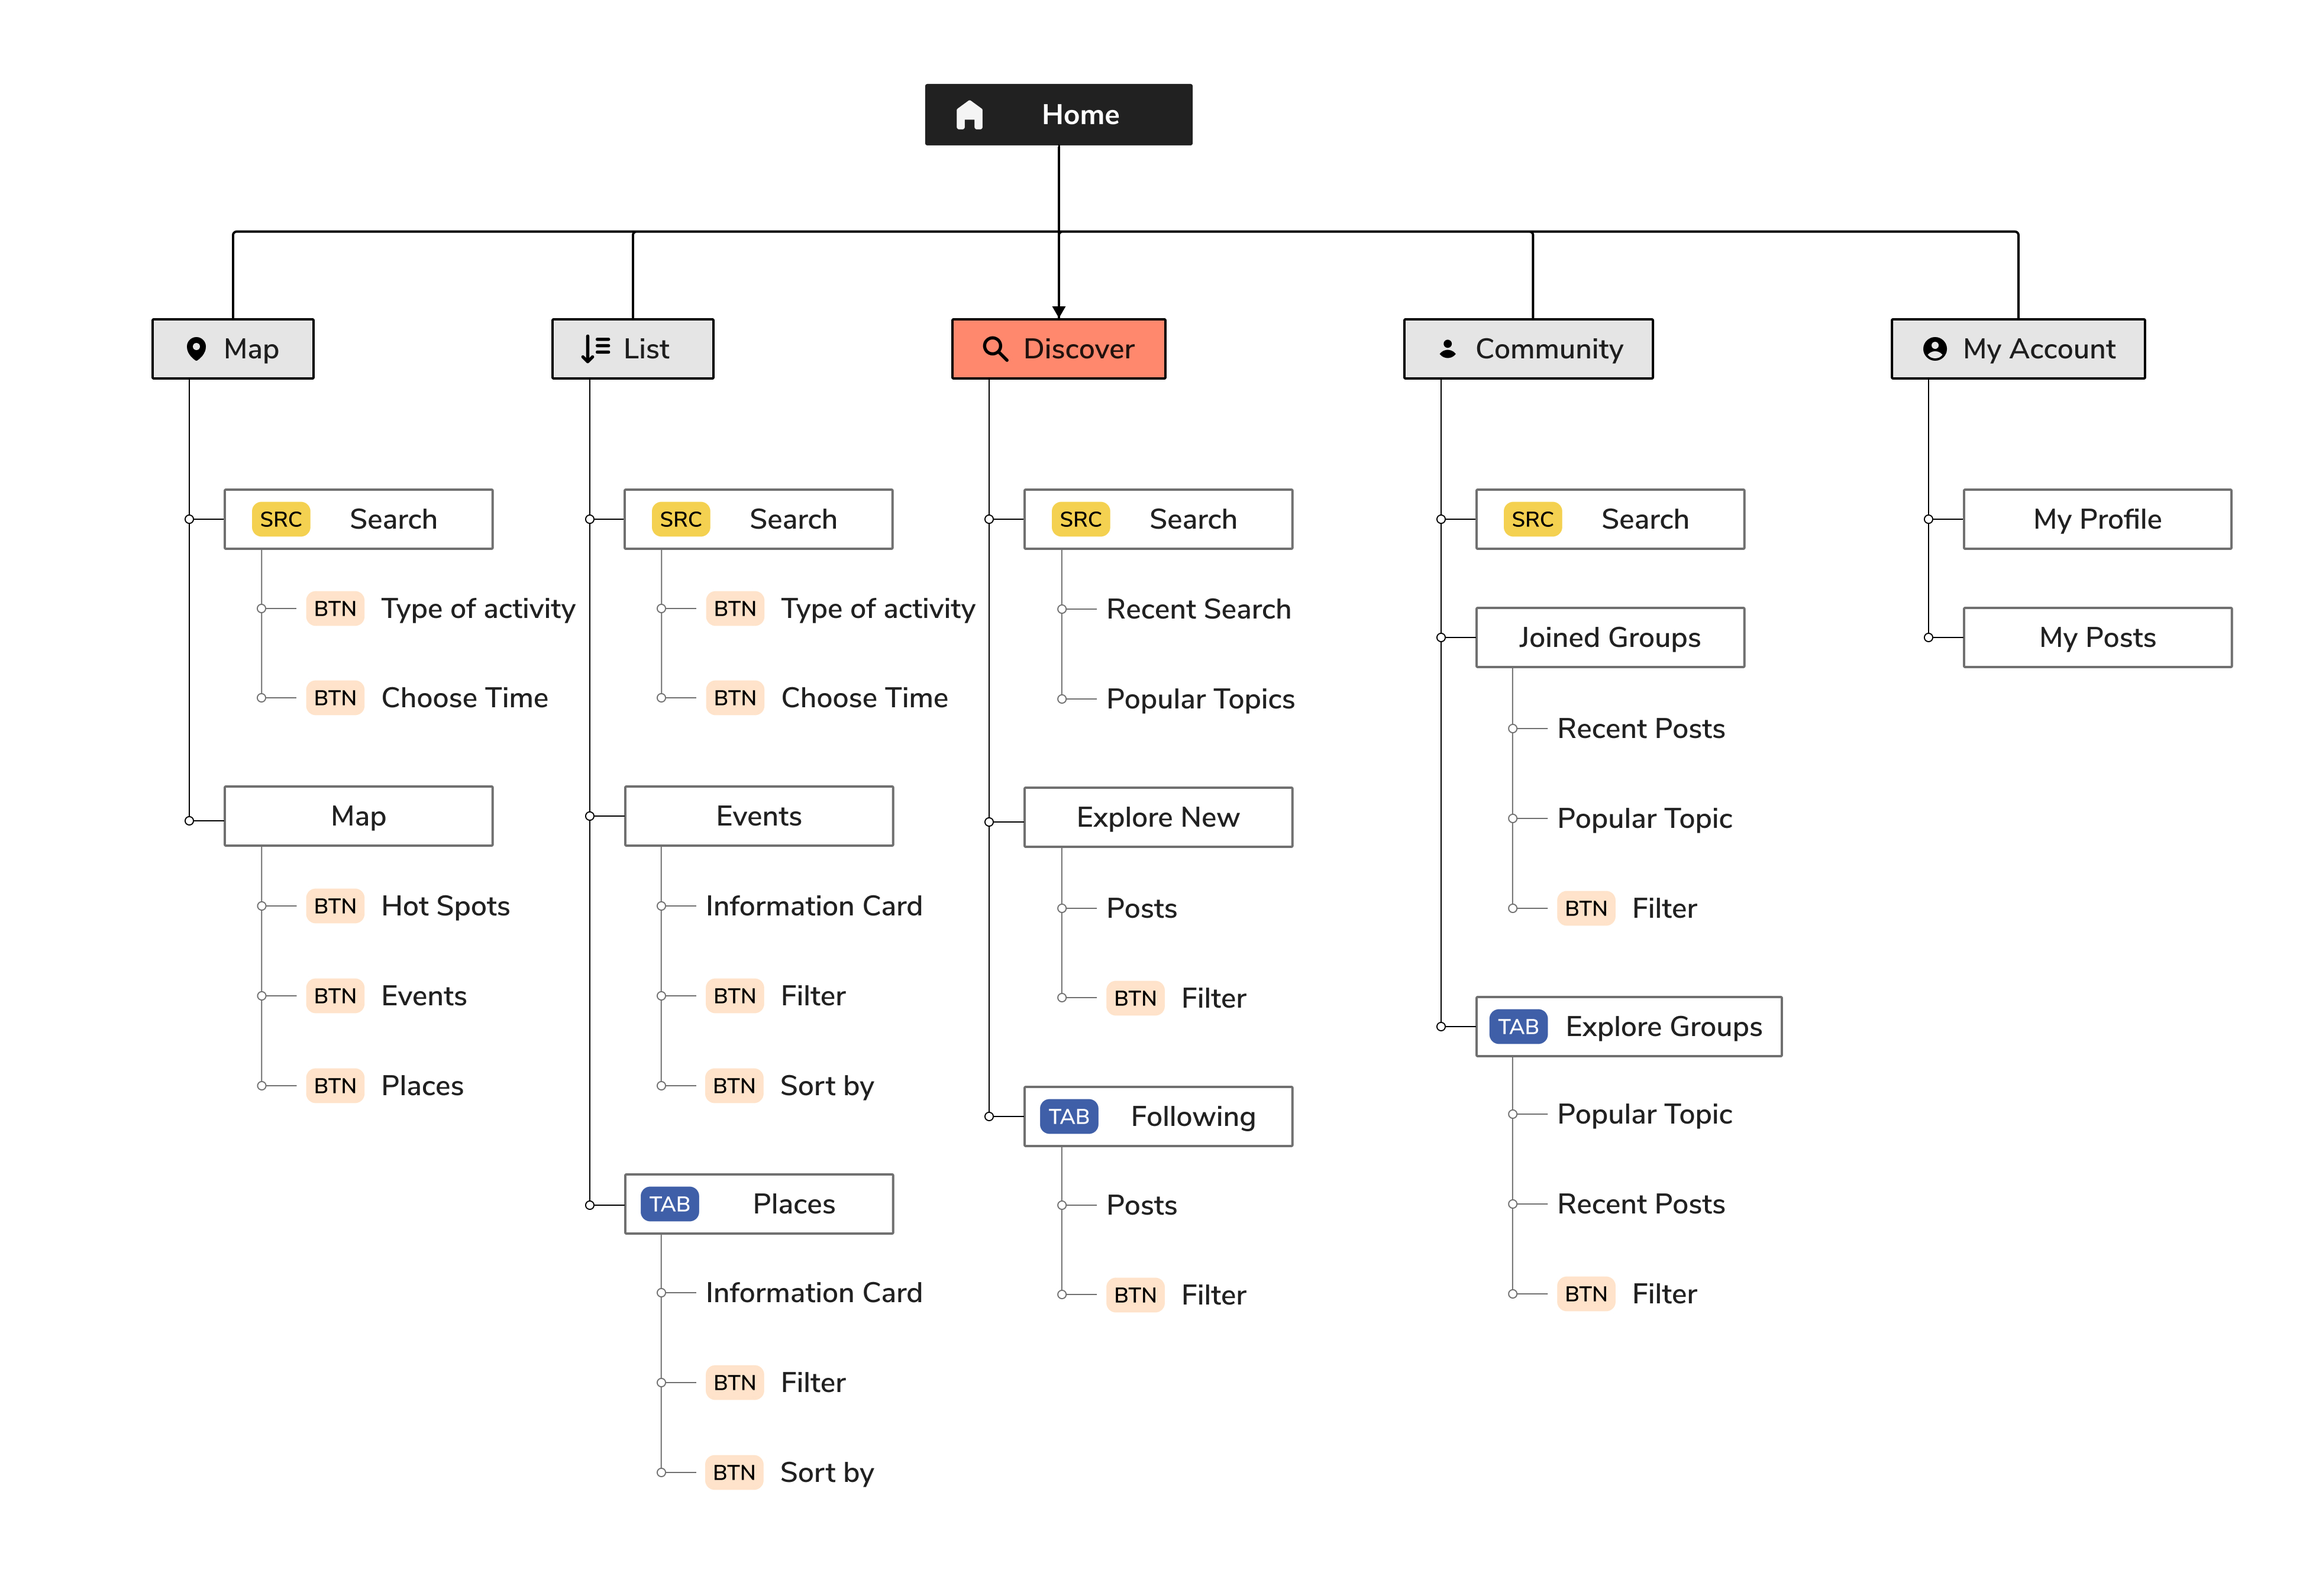
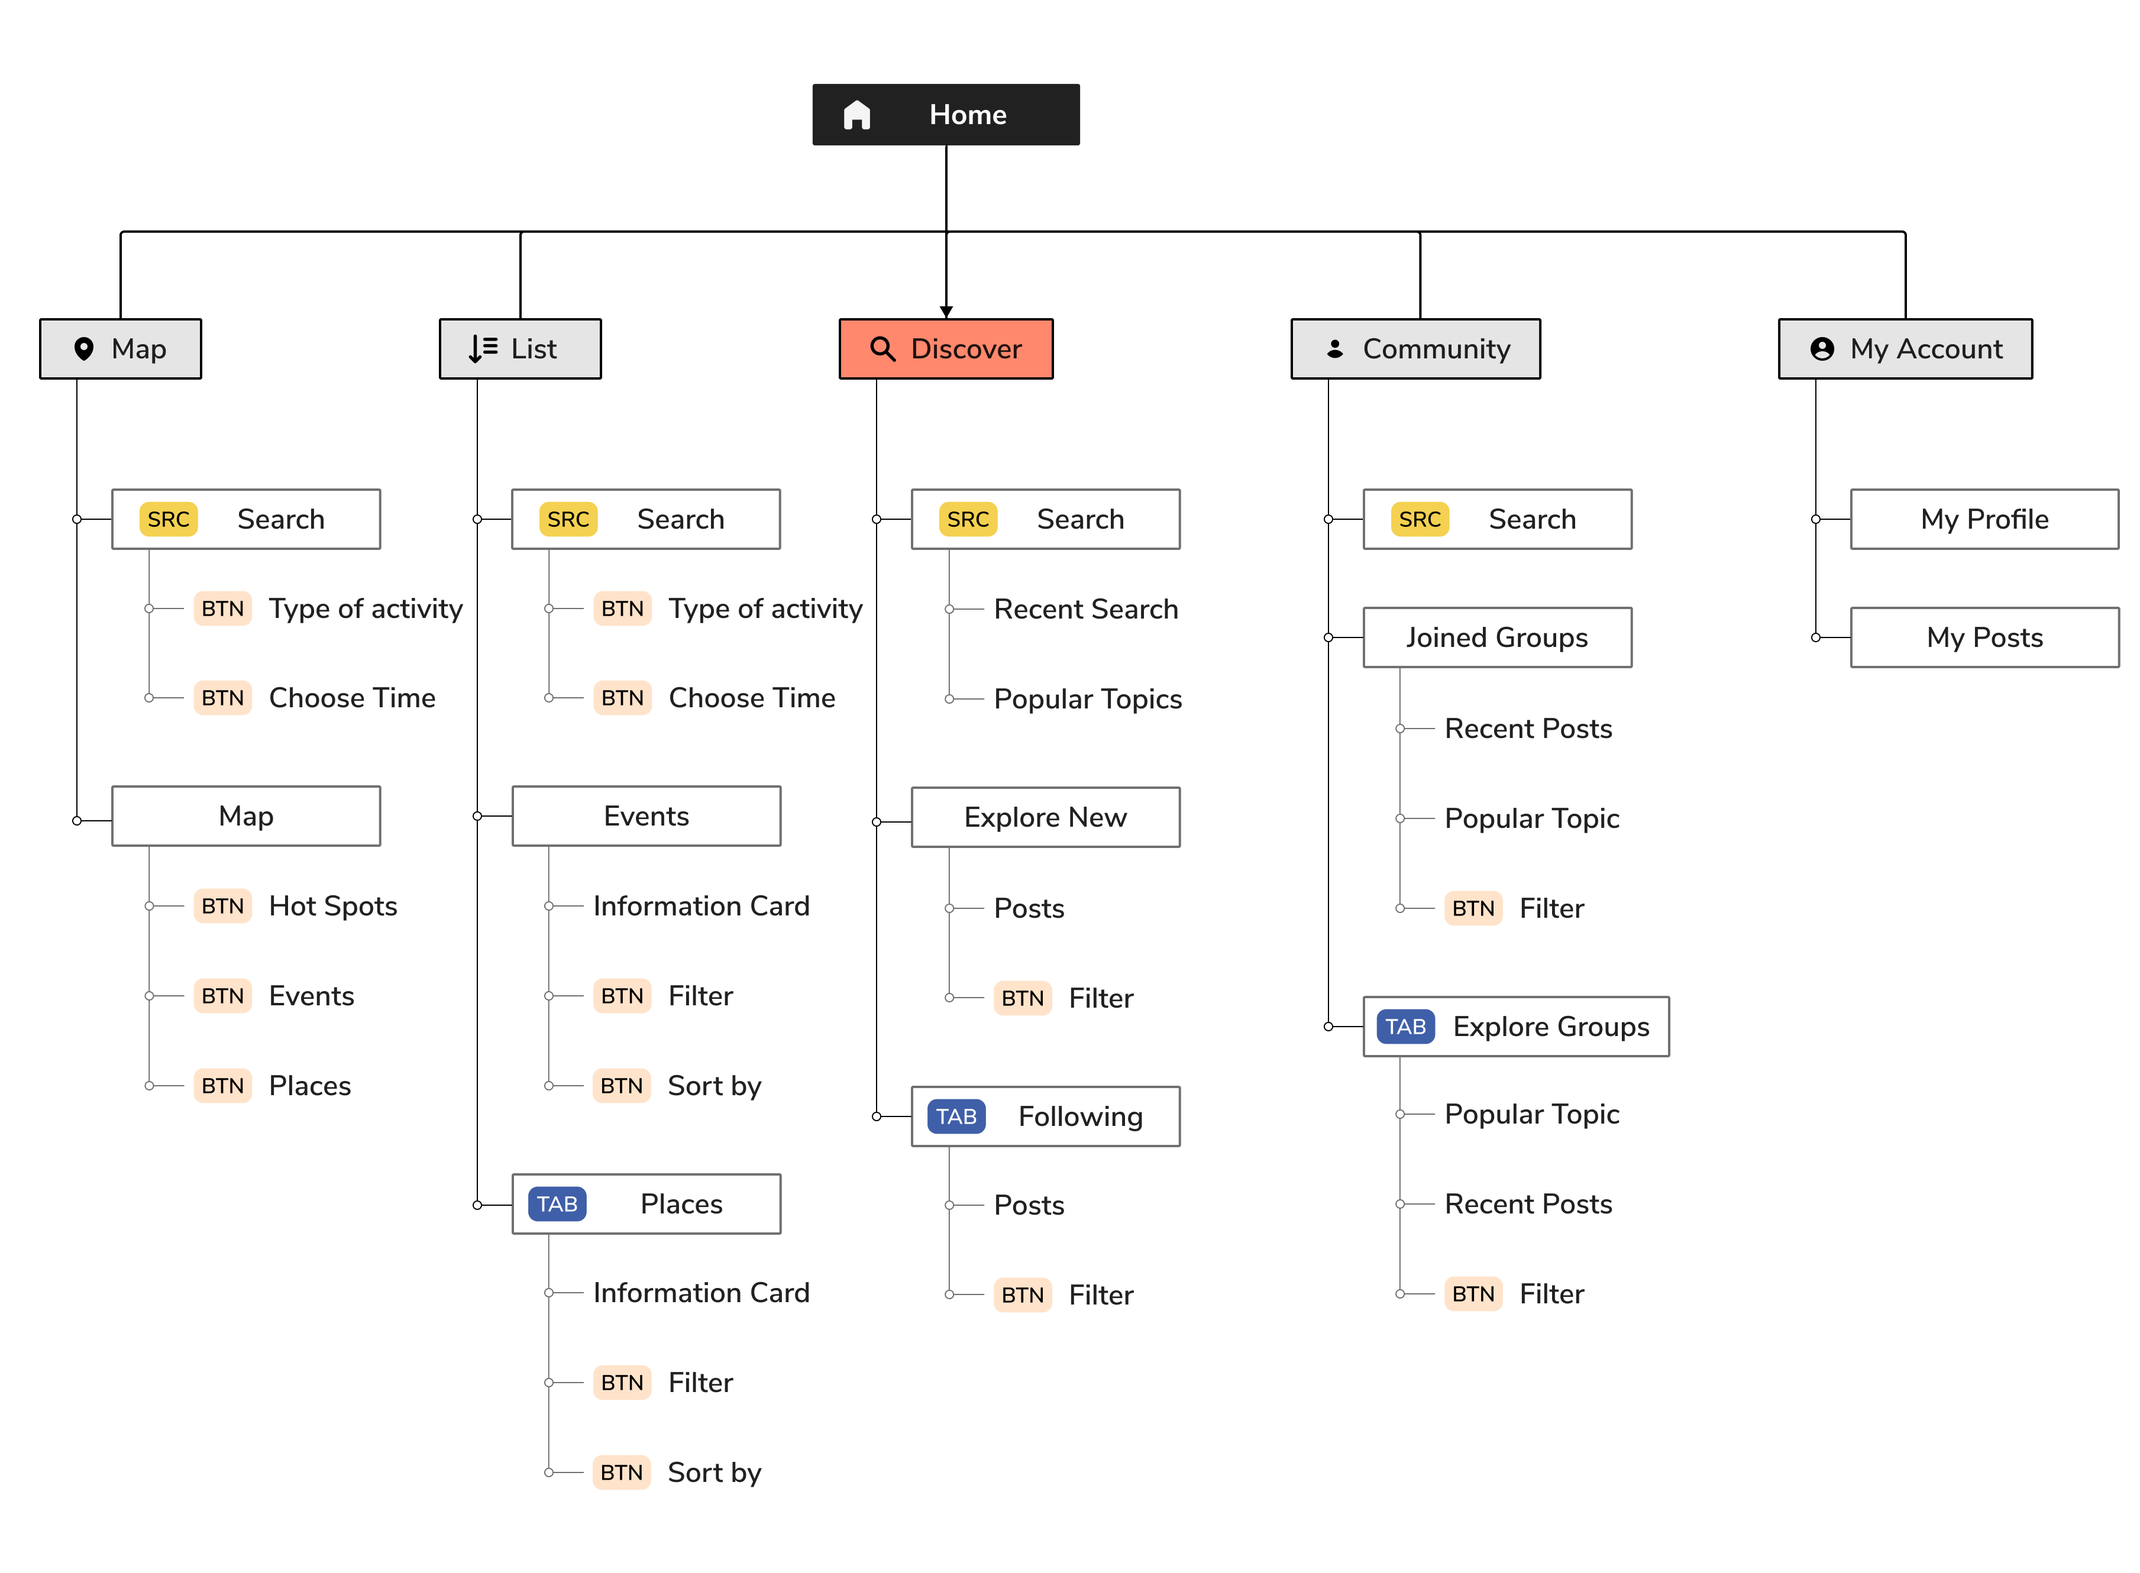
eventdiscoveryapp

diff --git a/local-discovery-responsive.html b/local-discovery-responsive.html
@@ -45,8 +45,8 @@
     <div class="row" id="banner" data-aos="fade-up" data-aos-duration="1200" data-aos-delay="200" data-aos-easing="ease-out">
         <div class="col-sm-6 col-md-7">
             <div id="projecttitle">
-                <h1><i>.local</i> Fun-discovery App</h1>
-                <h4>A fun-discovery app that helps users discover and share about local events and places easily.</h4>
+                <h1><i>.local</i> Event Discovery App</h1>
+                <h4>An event discovery app that helps users discover and share about local events and places easily.</h4>
             </div>
         </div>
         <div class="col-sm-6 col-md-5">
@@ -63,7 +63,7 @@
             <h3>Background</h3>
         </div>
         <div class="content">
-            <h4>'.Local' is a fun-discovery app that helps users discover and share about places and local events via posts and maps. I created the app from concept to high-fidelity prototype through conducting user research, sketches, and rounds of design
+            <h4>'.Local' is a event-discovery app that helps users discover and share about places and local events via posts and maps. I created the app from concept to high-fidelity prototype through conducting user research, sketches, and rounds of design
                 iterations. I also conducted many rounds of user testing and altered design based on feedback to improve the app's learnability and usability.</h4>
         </div>
         <div class="Problem">
@@ -92,7 +92,7 @@
             <h3>Team</h3>
         </div>
         <div>
-            <h4>Personal Project with Mentor </h4>
+            <h4>One Product Designer</h4>
         </div>
         <div>
             <h3>Tools</h3>
@@ -288,7 +288,7 @@
                 saved.
             </h4>
             <img src="local-discovery-app/Diagram/10_Site-Map-version1.jpg" alt="SiteMap" data-aos="fade-in" data-aos-duration="800" data-aos-easing="ease-in-back">
-            <h5>Site Map Version1</h5>
+            <h5>Site Map Version1<a href="local-discovery-app/Diagram/10_Site-Map-version1.jpg">(Click to enlarge)</a></h5>
             <br>
             <li class="subtitle">User Flows</li>
             <h4>I mapped out the most critical user flows I identified for the user stories.</h4>
@@ -298,7 +298,8 @@
             <h4>3- Users go straight to the search bar and search for topics they are interested in.</h4>
             <h4>4- Find what's happening around them on the map.</h4>
             <img src="local-discovery-app/Diagram/11_User-Flow-01.jpg" alt="UserFlow" data-aos="fade-in" data-aos-duration="800" data-aos-easing="ease-in-back">
-            <h5>User Flows</h5>
+            <h5>User Flows<a href="local-discovery-app/Diagram/11_User-Flow-01.jpg">(Click to enlarge)</a>
+            </h5>
             <li class="subtitle">Sketches and User Testing</li>
             <li class="subsubtitle">1- First iterations: Drafting the concepts</li>
             <H4>With all the supporting work presented, I started to create multiple iterations of hand-drawn sketches before diving into wire-framing and prototyping. With many thoughts going on at the same time, hand sketches were the quickest way to express

diff --git a/index.html b/index.html
@@ -105,7 +105,7 @@
     <a href="local-discovery-responsive.html" class="work1container">
         <div id="workcontent">
             <div class="description">
-                <h4> .Local Fun Discovery App</h4>
+                <h4> .Local Event Discovery App</h4>
                 <h5> User Research, UX Design, UI Design, Prototype</h5>
             </div>
             <div class="workimage">
